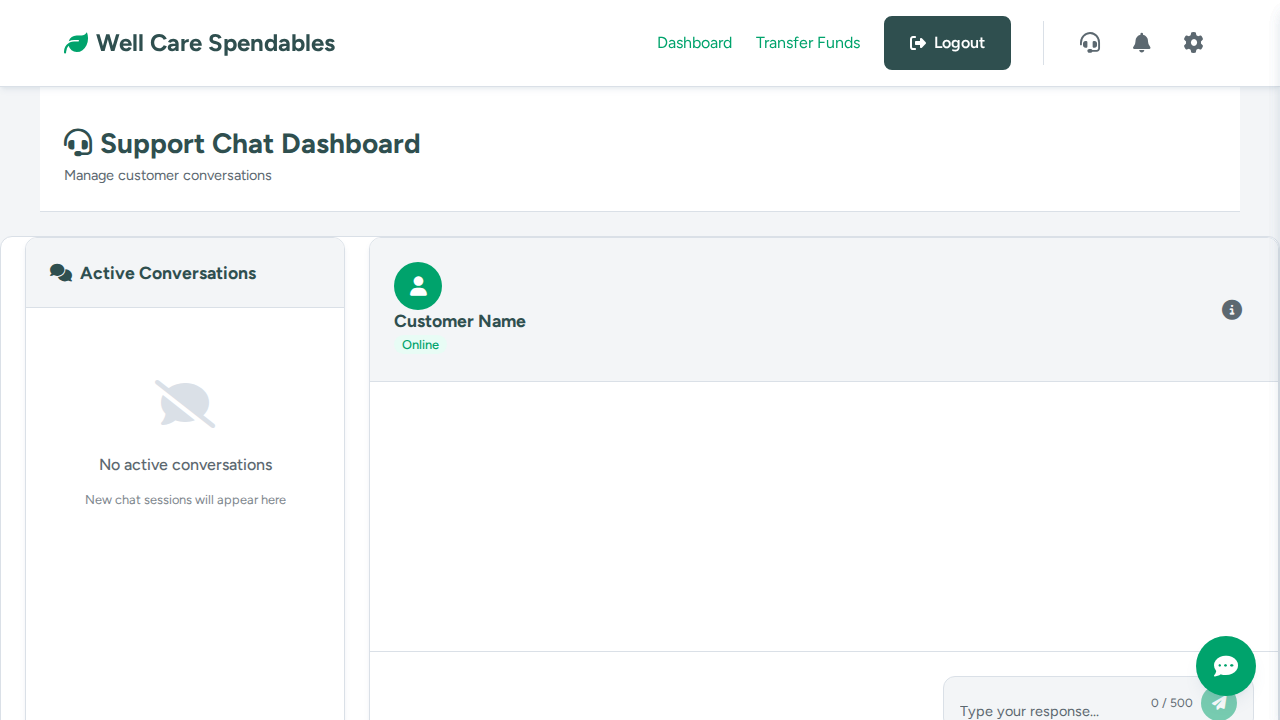
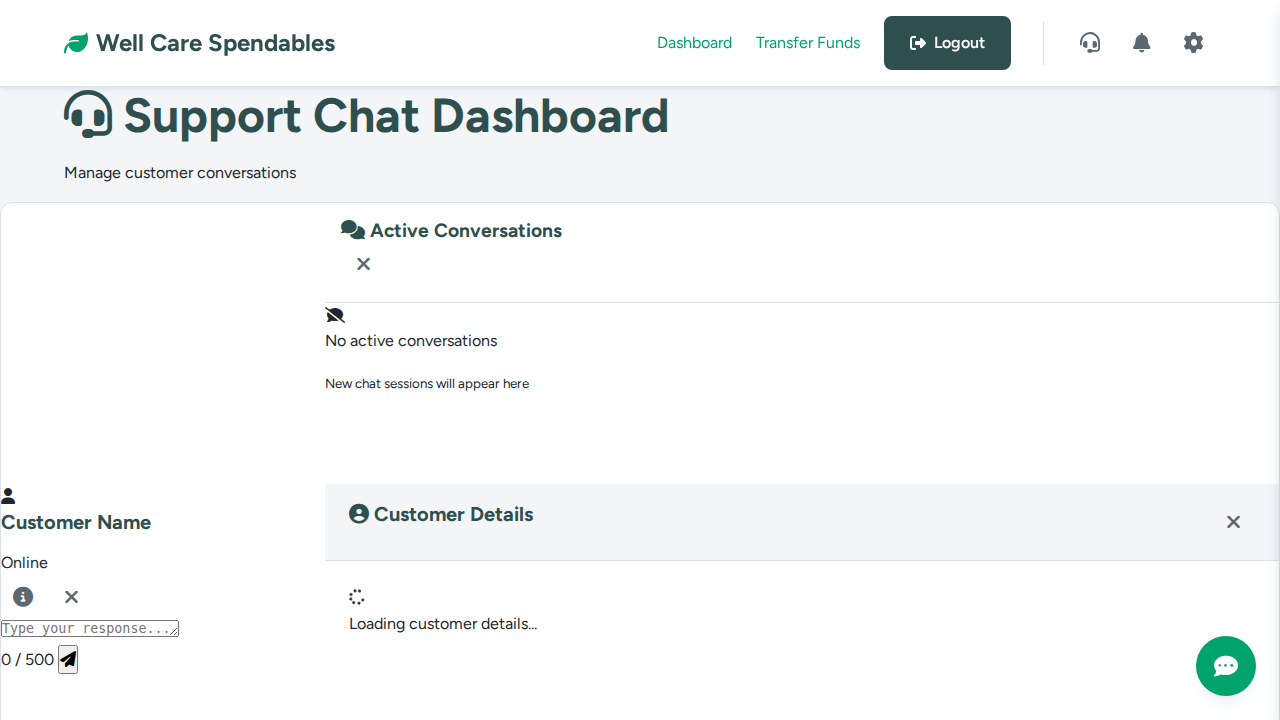
This commit resolves a caching issue that was preventing updates to the admin chat interface from appearing in a production environment.
- An asset bundle for `admin_chat.css` has been created in `app.py`.
- The `templates/admin/chat.html` template has been updated to use this new bundle.

This ensures that Flask-Assets will handle cache-busting for the admin chat stylesheet, forcing browsers to download the latest version when changes are deployed.

diff --git a/templates/admin/chat.html b/templates/admin/chat.html
@@ -179,7 +179,9 @@
 
 
 {% block extra_css %}
-<link rel="stylesheet" href="{{ url_for('static', filename='css/admin_chat.css') }}">
+    {% assets "admin_chat_css" %}
+        <link rel="stylesheet" href="{{ ASSET_URL }}" />
+    {% endassets %}
 {% endblock %}
 
 {% block extra_js %}

diff --git a/app.py b/app.py
@@ -76,6 +76,13 @@ js_bundle = Bundle(
 assets.register('css_all', css_bundle)
 assets.register('js_all', js_bundle)
 
+admin_chat_css_bundle = Bundle(
+    'css/admin_chat.css',
+    filters='cssmin',
+    output='gen/admin_chat.css'
+)
+assets.register('admin_chat_css', admin_chat_css_bundle)
+
 # Load configuration based on environment
 if os.getenv('FLASK_ENV') == 'production':
     # Try to import production config
